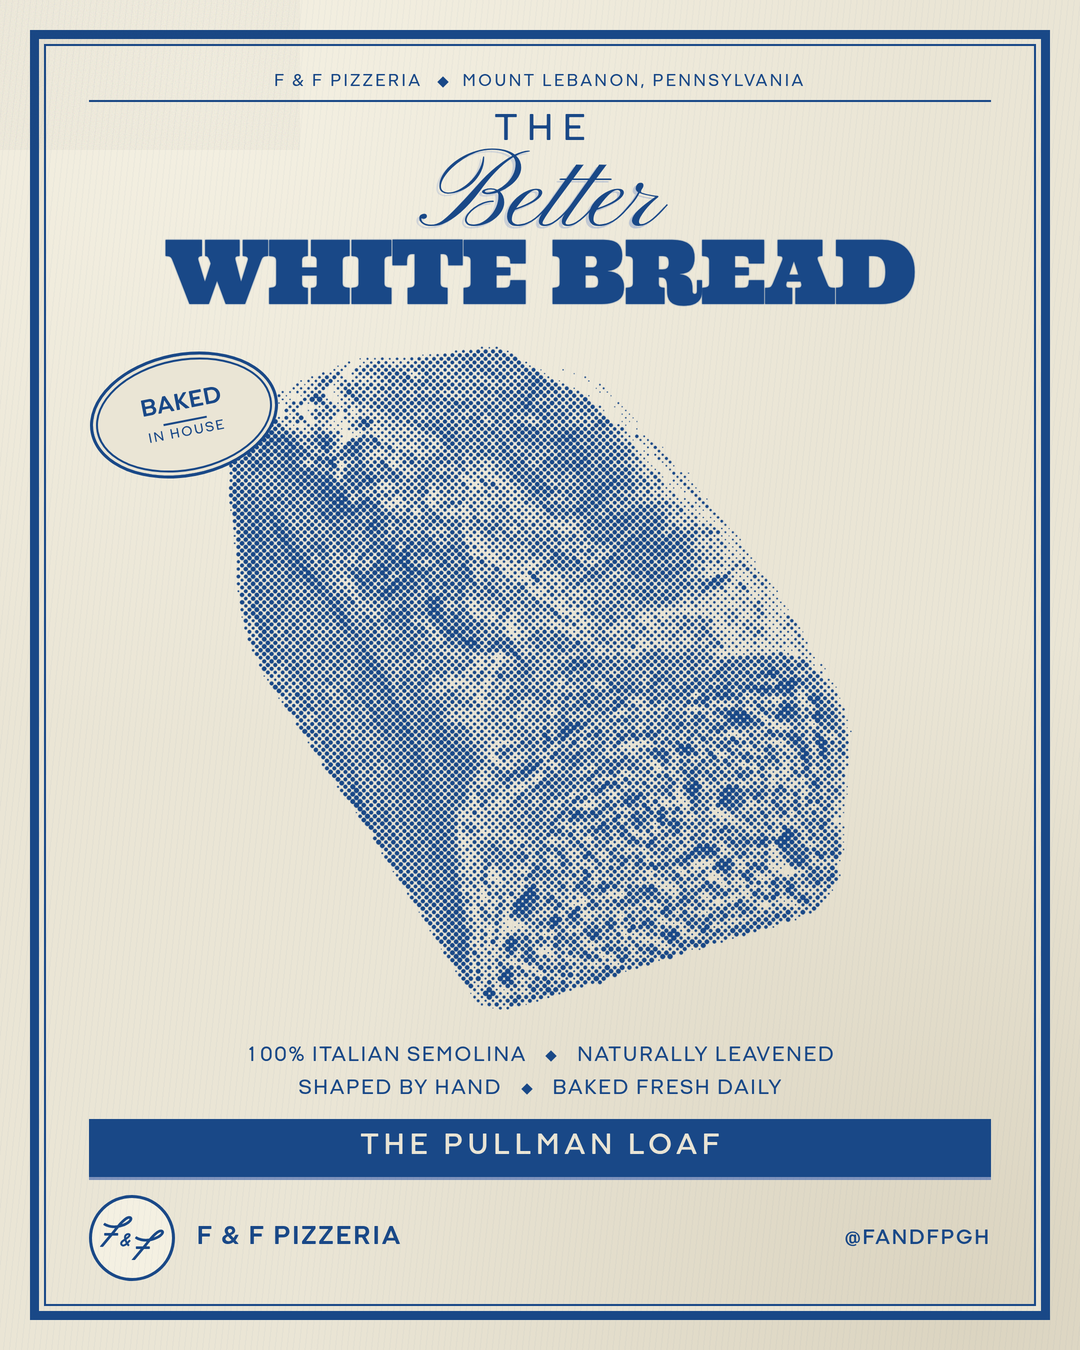
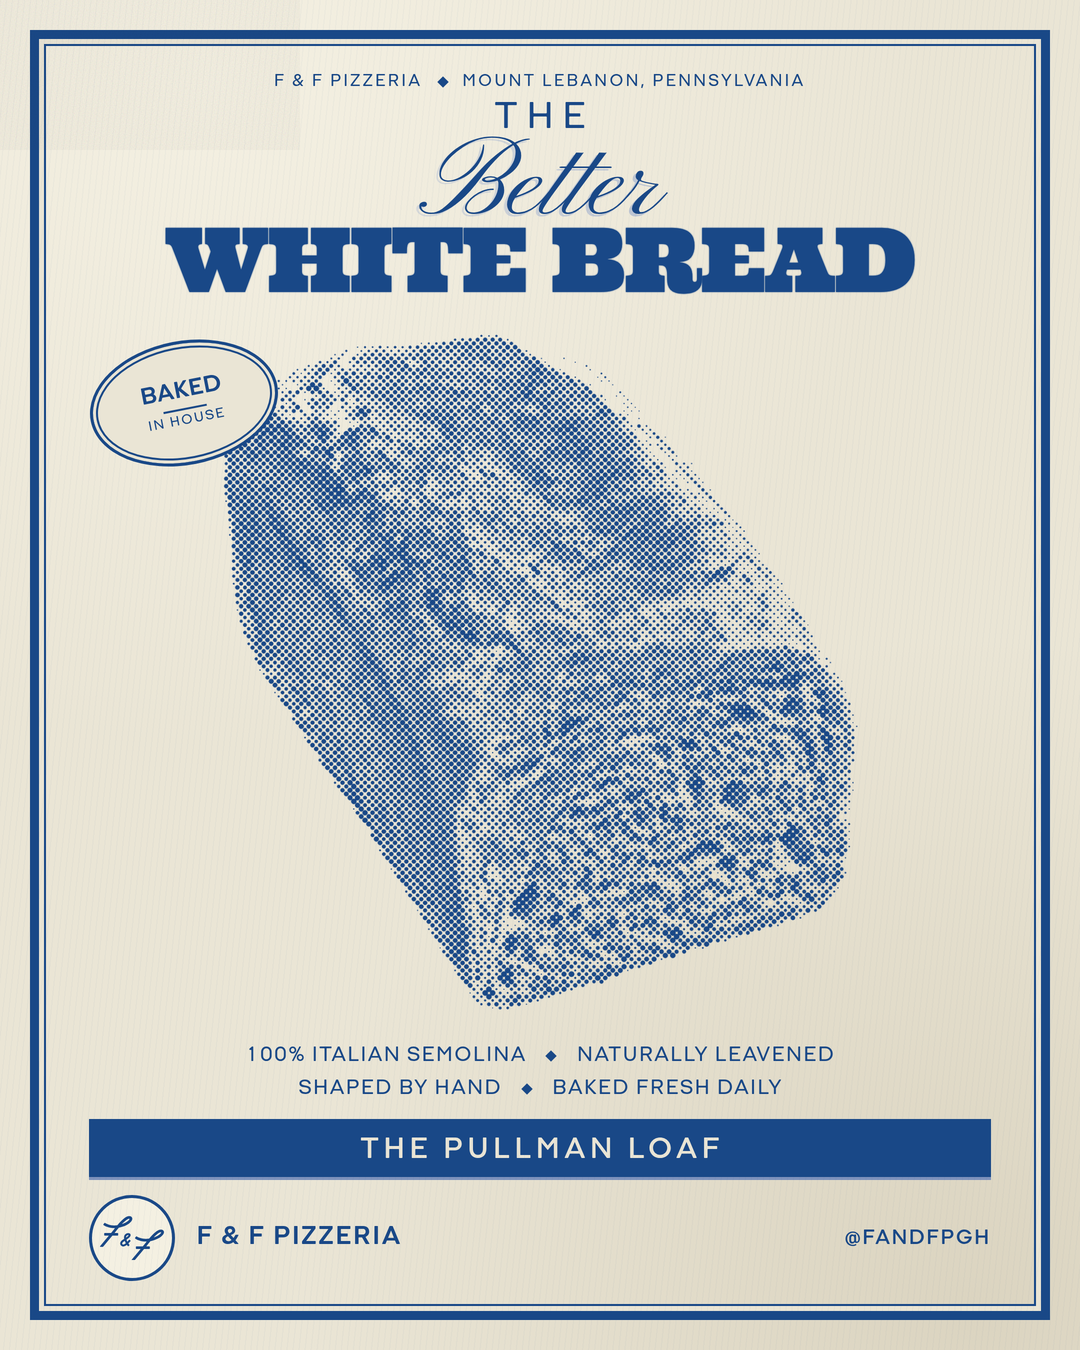
Drop the dateline rule; optically centre the slab type
- The rule under the dateline comes off. The signature rule is now the only
  one left in the piece.
- "The Pullman Loaf" was riding high in the blue bar. Caps carry no descenders,
  so a symmetric line box leaves space below them that reads as a gap: measured
  14.5px above the caps against 23.0px below. Shifted 4.25px of padding from the
  bottom to the top, which leaves the bar the same height.

Measured after the change: 18.5px above, 19.0px below, and 272.0 / 272.5 left
to right - centred on both axes to within a fifth of a pixel.

Claude-Session: https://claude.ai/code/session_011dxmmrtFmZtj58y9PcS9Yj

Changed region(s): [[0.0611, 0.0622, 0.8556, 0.7467], [0.3361, 0.84, 0.6722, 0.8711]]

diff --git a/social/pullman-loaf/tools/post.tpl.html b/social/pullman-loaf/tools/post.tpl.html
@@ -64,7 +64,7 @@
     font-family:"Italian Plate No1 Expanded","Helvetica Neue",Arial,sans-serif;
     font-weight:500; font-size:17px; letter-spacing:.16em;
     text-transform:uppercase;
-    padding-bottom:10px; border-bottom:2px solid var(--ink);
+    padding-bottom:0;
   }
   .eyebrow .lozenge{ width:8px; height:8px; flex:none; rotate:45deg; background:var(--brand); }
 
@@ -138,7 +138,7 @@
     font-family:"Italian Plate No1 Expanded","Helvetica Neue",Arial,sans-serif;
     font-weight:600; font-size:30px; letter-spacing:.18em; text-indent:.18em;
     text-transform:uppercase; text-align:center;
-    padding:12px 0 15px;
+    padding:16px 0 11px;
   }
   .slab::after{                                /* second plate, a hair low */
     content:""; position:absolute; left:0; right:0; bottom:-3px; height:3px;
